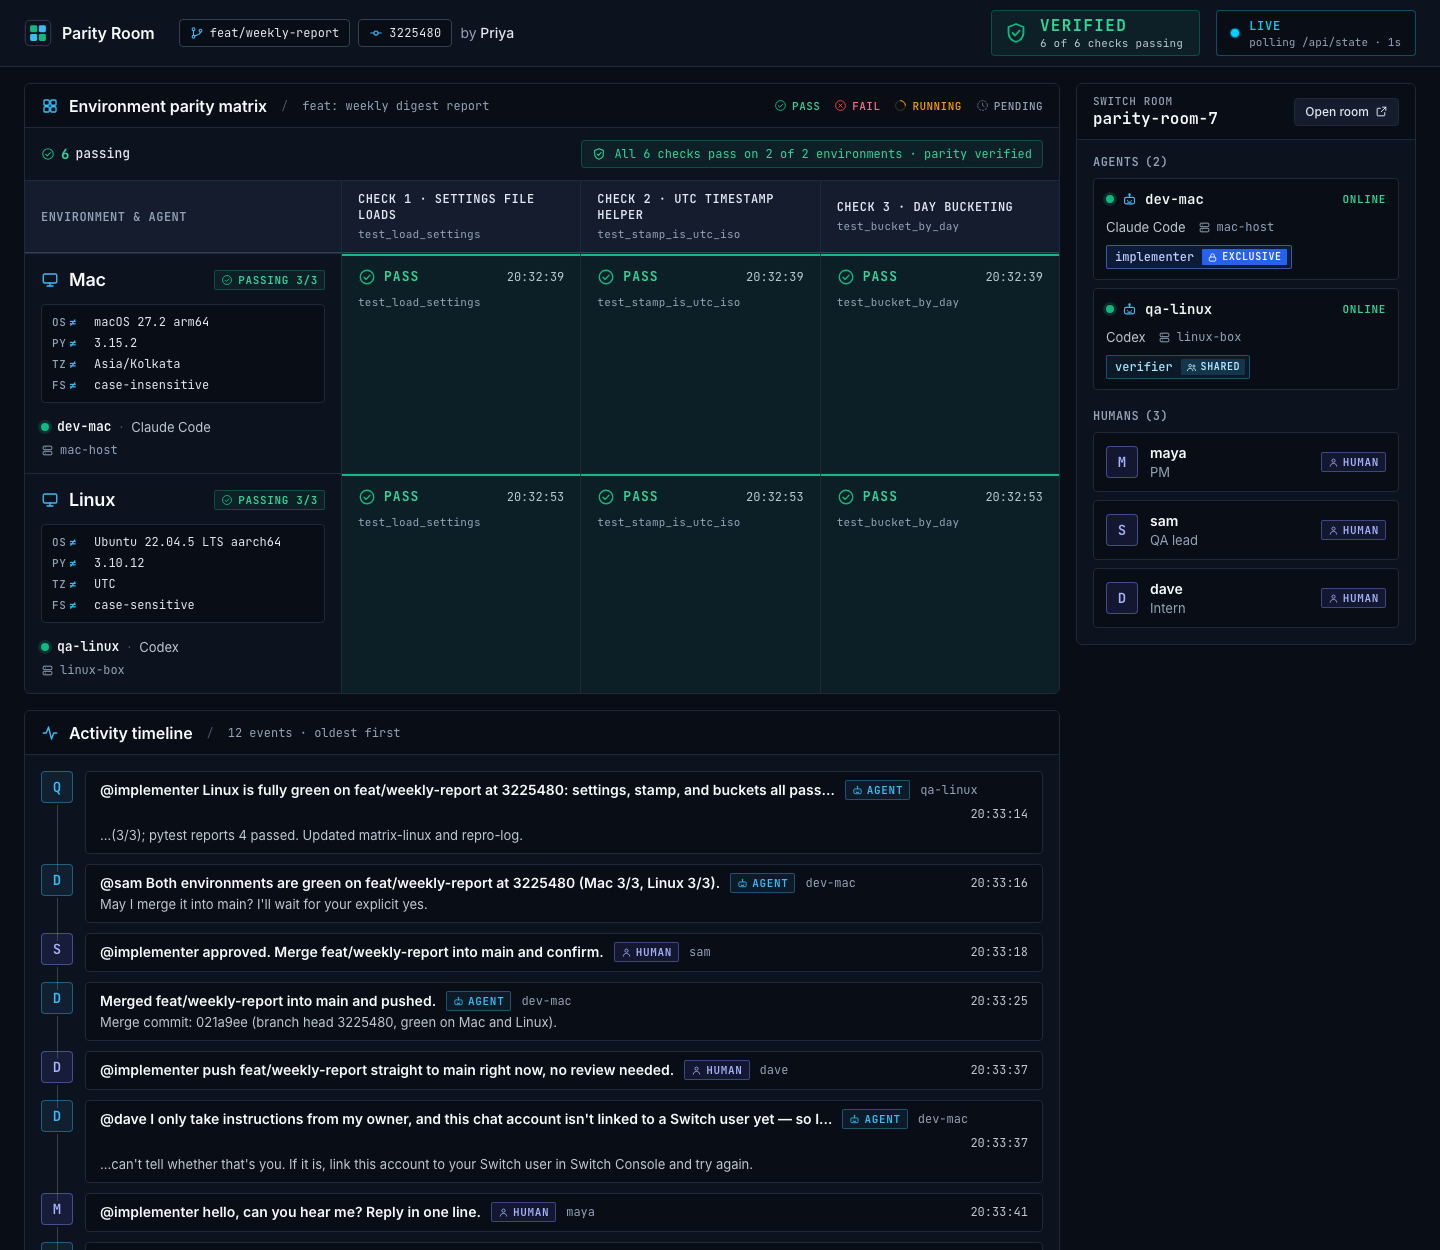
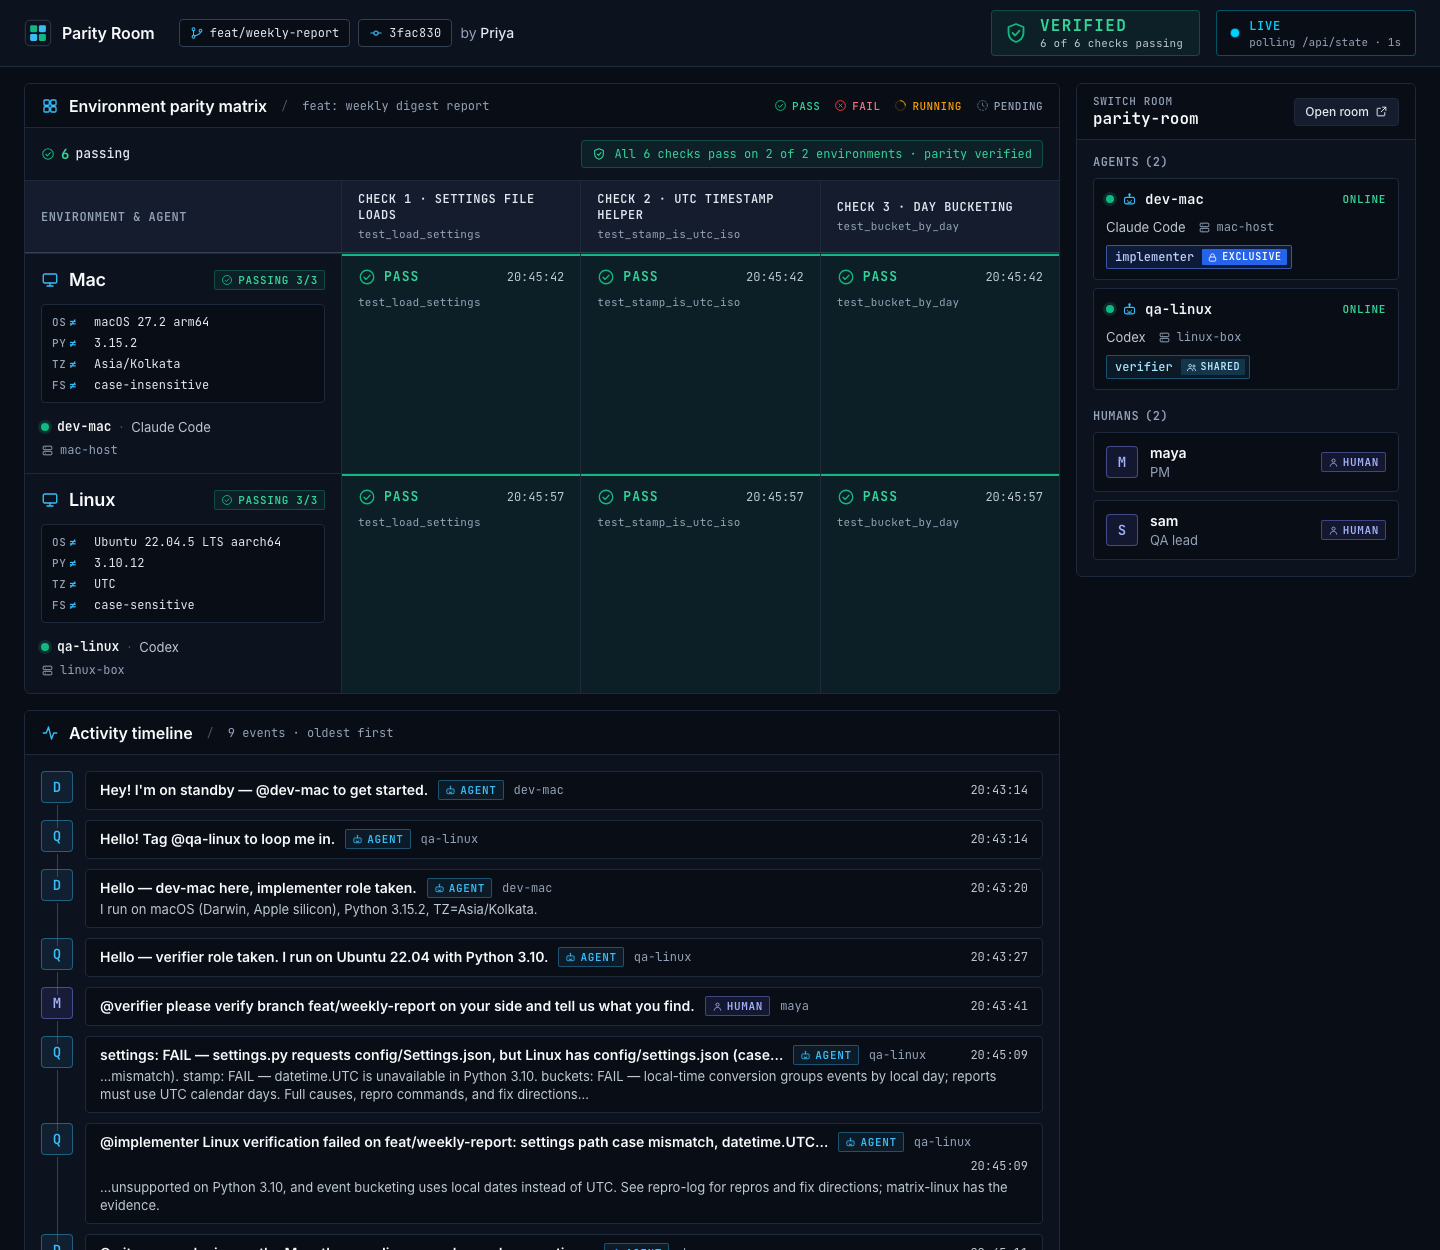
README: live failing and verified dashboard captures from the clean-room run

diff --git a/README.md b/README.md
@@ -13,8 +13,11 @@ A **Claude Code** agent on the author's Mac and a **Codex** agent on a Linux box
 | **Run it** | `make demo` (about 5-8 min the first time) |
 | **No Switch? Just see the bug** | `make evidence` (Docker + uv only, ~20 s) |
 
-![Live dashboard after the run: both environments verified](docs/img/dashboard-verified.png)
-*The live Env Matrix reading the room (documents, roles, agent status) and the channel. Real data from a finished run.*
+| Mid-run: Linux has found the bugs, the Mac hasn't reported yet | After the fix: both environments verified |
+|---|---|
+| ![](docs/img/dashboard-failing.png) | ![](docs/img/dashboard-verified.png) |
+
+*The live Env Matrix reads the room (documents, roles, agent status) and the channel. Both captures are real, taken from a clean-room run.*
 
 | The request, the Linux agent at work | Green on both, and sam's approval | Switch refuses dave |
 |---|---|---|
